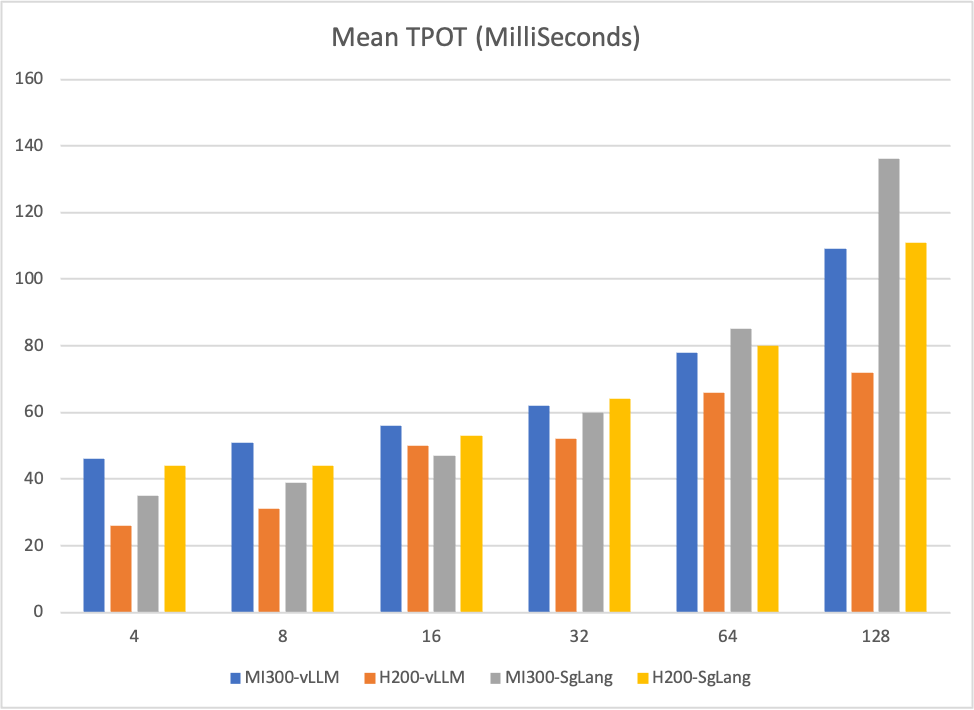
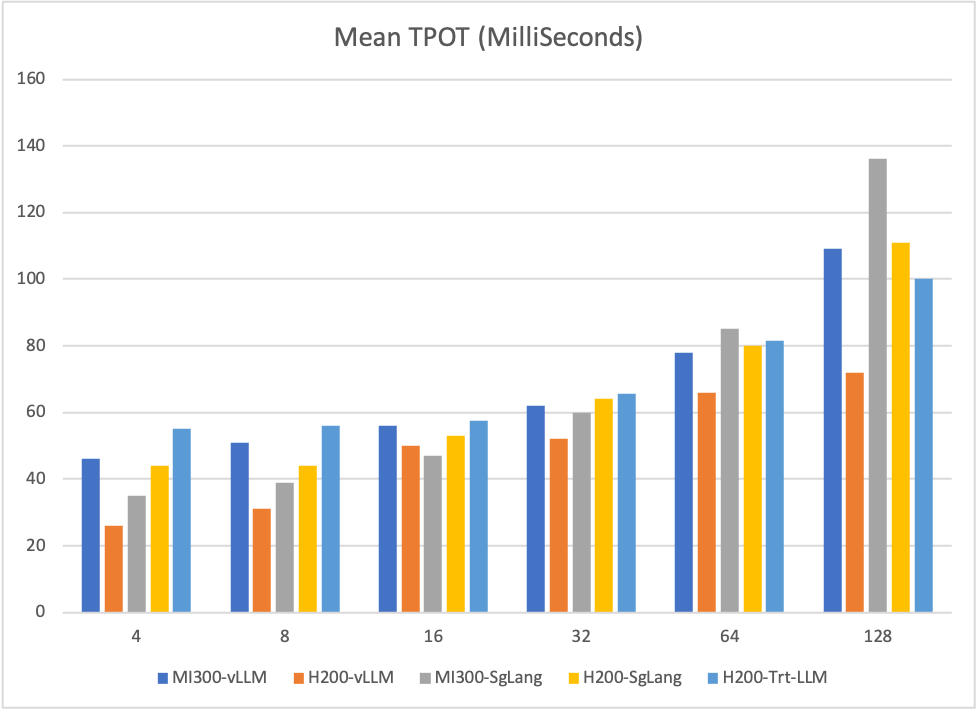
Update Tensorrt-LLM Online Benchmarks

diff --git a/Deepseek-R1/README.md b/Deepseek-R1/README.md
@@ -265,16 +265,16 @@ resources:
 ## Key Findings
 ### Throughput Vs Latency
 #### Online Throughput
-Mi300 achieves the highest throughput, while H200 performs better at lower concurrency levels. vLLM outperforms SgLang across a wider range of concurrency levels on both Mi300 and H200, while also achieving the highest throughput.
-As shown in the online throughput charts except Mi300-vLLM other configurations begin to plateau once concurrency reaches 64.
+Mi300 achieves the highest throughput, while H200 performs better at lower concurrency levels. vLLM outperforms SgLang and Tensorrt-LLM across a wider range of concurrency levels on both Mi300 and H200, while also achieving the highest throughput.As shown in the online throughput charts, except Mi300-vLLM other configurations begin to plateau once concurrency reaches 64.
 
-Mi300-vLLM delivers best throughput at higher concurrency levels, particularly at 128. 
+- Mi300-vLLM delivers best throughput at higher concurrency levels, particularly at 128. 
 
-H200-vLLM delivers best throughput performance at lower concurrency levels, especially below 64.
+- H200-vLLM delivers best throughput performance at lower concurrency levels, especially below 64.
 
-Mi300-SgLang outperforms both H200-SgLang and Mi300-vLLM at concurrency levels below 32 but remains behind H200-vLLM.
+- Mi300-SgLang outperforms both H200-SgLang and Mi300-vLLM at concurrency levels below 32 but remains behind H200-vLLM.
 
-H200-SgLang surpasses both H200-vLLM and Mi300-SgLang at higher concurrency levels, particularly at 128, but still falls short of Mi300-vLLM.
+- H200-SgLang surpasses both H200-vLLM and Mi300-SgLang at higher concurrency levels, particularly at 128, but still falls short of Mi300-vLLM.
+- H200-Tensorrt-LLM lags behind other configurations at concurrency levels below 16, but starts to outperform both Mi300-Sglang and H200-Sglang at concurrency level above 64. 
 
 ![Online Throughput Vs Latency](images/online_throughput_vs_latency.png)
 ![Online Throughput Vs Concurrency](images/online-throughput-vs-concurrency.png)
@@ -282,80 +282,92 @@ H200-SgLang surpasses both H200-vLLM and Mi300-SgLang at higher concurrency leve
 #### Offline Throughput
 Unlike online throughput results, H200 achieves the highest overall throughput, while Mi300 performs better at smaller batch sizes. vLLM clearly outperforms SgLang on Mi300, whereas SgLang surpasses vLLM on H200 at medium and larger batch sizes.
 
-  H200-SgLang achieves the highest throughput at larger batch sizes, particularly above 512.
+- H200-SgLang achieves the highest throughput at larger batch sizes, particularly above 512.
 
-  Mi300-vLLM delivers the best throughput at medium batch sizes, especially between 128 and 256.
+- Mi300-vLLM delivers the best throughput at medium batch sizes, especially between 128 and 256.
 
-  H200-vLLM performs best at smaller batch sizes, particularly below 64.
+- H200-vLLM performs best at smaller batch sizes, particularly below 64.
 
-  Mi300-SgLang lags behind all other configurations except H200-TensorRT-LLM.
+- Mi300-SgLang lags behind all other configurations except H200-TensorRT-LLM.
 
-  H200-TensorRT-LLM significantly lags behind all other configurations.
+- H200-TensorRT-LLM significantly lags behind all other configurations.
 
 ![Offline Throughput Vs Latency](images/offline_throughput_vs_latency.png)
-Note: H200-Trt-LLM has been removed from the above Offline Throughput-Latency chart to avoid scale distortion, 
-which would compress other configurations and make comparisons difficult.
+
+*Note: H200-Trt-LLM has been removed from the above Offline Throughput-Latency chart to avoid scale distortion, 
+which would compress other configurations and make comparisons difficult.*
+
 ![Offline Throughput Vs Batch Size](images/offline-throughput-vs-batch-size.png)
 ### Throughput/Latency Vs Output Length
  
-#### Online
+#### Online Throughput/Latency Vs Output Length
 SgLang on both Mi300 and H200 remains relatively stable as output token length increases, whereas vLLM implementations experience more variation. Notably, H200-vLLM shows a sharp latency spike at 6400 tokens.
 
   SgLang-H200 delivers best performance with larger output token length, especially after 3200.
 ![Online Throughput Vs Output Length](images/online-throughput-vs-output.png)
 ![Online Latency Vs Output Length](images/online-latency-vs-output.png)
-Note: To analyze throughput and latency performance across increasing output token lengths, request concurrency is fixed at 128.
 
-### Offline
+*Note: To analyze throughput and latency performance across increasing output token lengths, request concurrency is fixed at 128.*
+
+### Offline Throughput/Latency Vs Output Length
 Like Online throughput results, SgLang on both Mi300 and H200 remains relatively stable as output token length increases.
 
 SgLang-H200 delivers best performance with larger output token lengths, especially after 1600.
 
 ![Offline Throughput Vs Output Length 256](images/offline-throughput-vs-output-256.png)
-
 ![Offline Latency Vs Output Length 256](images/offline-latency-vs-output-length-256.png)
-Note: To analyze throughput and latency performance across increasing output token lengths, batch size is fixed at 256.
+
+*Note: To analyze throughput and latency performance across increasing output token lengths, batch size is fixed at 256.*
 
 ### TTFT & TPOT
 
 #### TTFT
-H200 achieves the best TTFT at lower concurrency levels, while Mi300 outperforms once concurrency exceeds 32. vLLM consistently delivers better TTFT than SgLang on both H200 and Mi300, except at concurrency 128.
+H200 achieves the best TTFT at concurrency levels below 64, while Mi300 outperforms once concurrency exceeds 64. vLLM consistently delivers better TTFT than SgLang on both H200 and Mi300, except at concurrency 128. Tensort-LLM beats vLLM and SgLang at concurrency levels below 64.
 
-  H200-vLLM delivers best TTFT at concurrency levels below 16, however at concurrency 128, performance significantly degrades with a sharp spike.
+- H200-Tensorrt-LLM delivers best and consistent TTFT at concurrency levels below 64. Its TTFT degrades significantly at concurrency 128. 
 
-  Mi300-vLLM delivers the best performance beyond concurrency 64. Below concurrency 32, both Mi300-vLLM and Mi300-SgLang perform equally well, providing the second-best TTFT.
- 
-  H200-Sglang lags behind all other configurations. 
+- H200-vLLM delivers second best TTFT at concurrency levels below 16, however at concurrency 128, performance significantly degrades with a sharp spike.
+
+- Mi300-vLLM delivers the best performance beyond concurrency 64.
+
+- H200-Sglang lags behind all other configurations. 
 
 ![TTFT Vs Concurrency](images/ttft-vs-concurrency.png)
 
 #### TPOT
 H200-vLLM provides best TPOT performance across all concurrency levels, with a slight exception at concurrency level 16, where Mi300-Sglang provides slightly better performance.
 
-Mi300-SgLang provides second best performance upto concurrency level 32, but performs worst beyond this level. 
+Mi300-SgLang provides second best performance upto concurrency level 32, but performs worst among the configurations beyond this level. 
 ![TPOT Vs Concurrency](images/tpot-vs-concurrency.png)
 
 ### TTFT & TPOT Vs Output Length
-#### TTFT
+#### TTFT Vs Output Length
 Mi300 outperforms H200 on both vLLM and SgLang in TTFT as the output lengths increases.
 
-  Mi300-vLLM outperforms all other configurations in TTFT as the output lengths increases. 
+- Mi300-vLLM outperforms all other configurations in TTFT as the output lengths increases. 
 
-  H200-vLLM's TTFT performance degrades significantly compared to all other configurations as output length increases.
+- H200-vLLM and H200-Tensorrt-LLM's TTFT performance degrades significantly compared to all other configurations as output length increases.
 
-  Mi300-Sglang TTFT performance suddenly degrades at 6400.
+- Mi300-Sglang TTFT performance suddenly degrades at 6400.
 ![TTFT Vs Output Length](images/ttft-vs-output-length.png)
 ![TTFT Vs Output Length Excluding H200-vLLM](images/ttft-vs-output-length-no-h200-vllm.png)
-#### TPOT
+
+*Note: H200-Tensorrt-LLM & H200-vLLM removed to avoid scale distortion
+#### TPOT Vs Output Length
 H200 outperforms Mi300 on both vLLM and SgLang in TPOT as the output length increases.
 
-  H200-vLLM's outperforms all other configurations in TPOT upto output length 3200. 
+- H200-vLLM's outperforms all other configurations in TPOT upto output length 3200. 
 
-  H200-SgLang outperforms all other configurations in TPOT at output length 6400.
+- H200-SgLang outperforms all other configurations in TPOT at output length 6400.
 
-  Mi300-SgLang lags behind all other configurations it TPOT as output length increases. 
+- Mi300-SgLang lags behind all other configurations it TPOT as output length increases.
+
+- H200-Tensorrt-LLM's TPOT performance improves as output token length increases. It provides best TPOT among the configuration at output length 6400.
+
 ![TPOT Vs Output Length](images/tpot-vs-output-length.png)
- Note: To analyze throughput and latency performance across increasing output token lengths, request concurrency is fixed at 128.
+
+ *Note: To analyze throughput and latency performance across increasing output token lengths, request concurrency is fixed at 128.*
+
 ### Prefix Caching
 H200-vLLM outperforms all other configurations in online throughput, TTFT and End to End Latency with Prefix Cached. 
 
@@ -370,3 +382,4 @@ H200-vLLM's performs TPOT degrades when Prefix Cached, while Sglang performs bet
 
 
 ### Conclusion
+Todo
